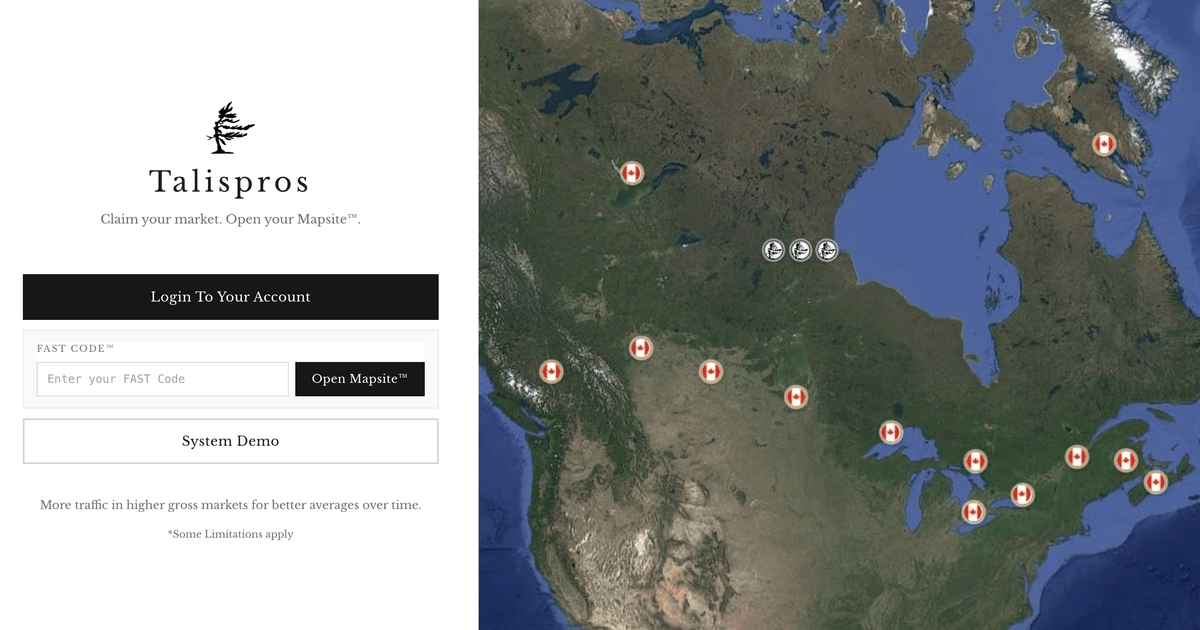
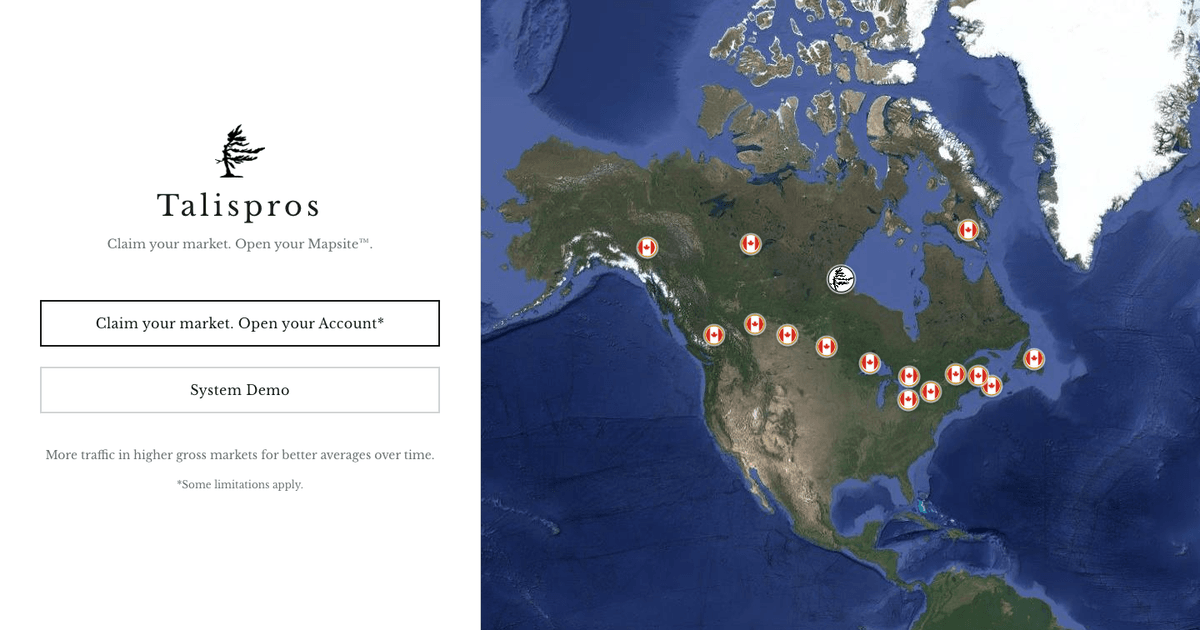
fix(start): refresh OG from live /start gate + Markets map
Replace start-og.png with a 1200×630 screenshot of production /start
(cf598d3 layout: left gate + right pins map). Palette-compress under
~250KB and bump ?v=3 so scrapers pick up the new image.

diff --git a/app/start/page.tsx b/app/start/page.tsx
@@ -19,7 +19,7 @@ export const metadata: Metadata = createMetadata({
   description: startDescription,
   path: SAMCART_SUCCESS_RETURN_PATH,
   image: {
-    url: toAbsoluteHttpsOgUrl("/assets/start-og.png?v=2"),
+    url: toAbsoluteHttpsOgUrl("/assets/start-og.png?v=3"),
     width: 1200,
     height: 630,
     alt: startTitle,
